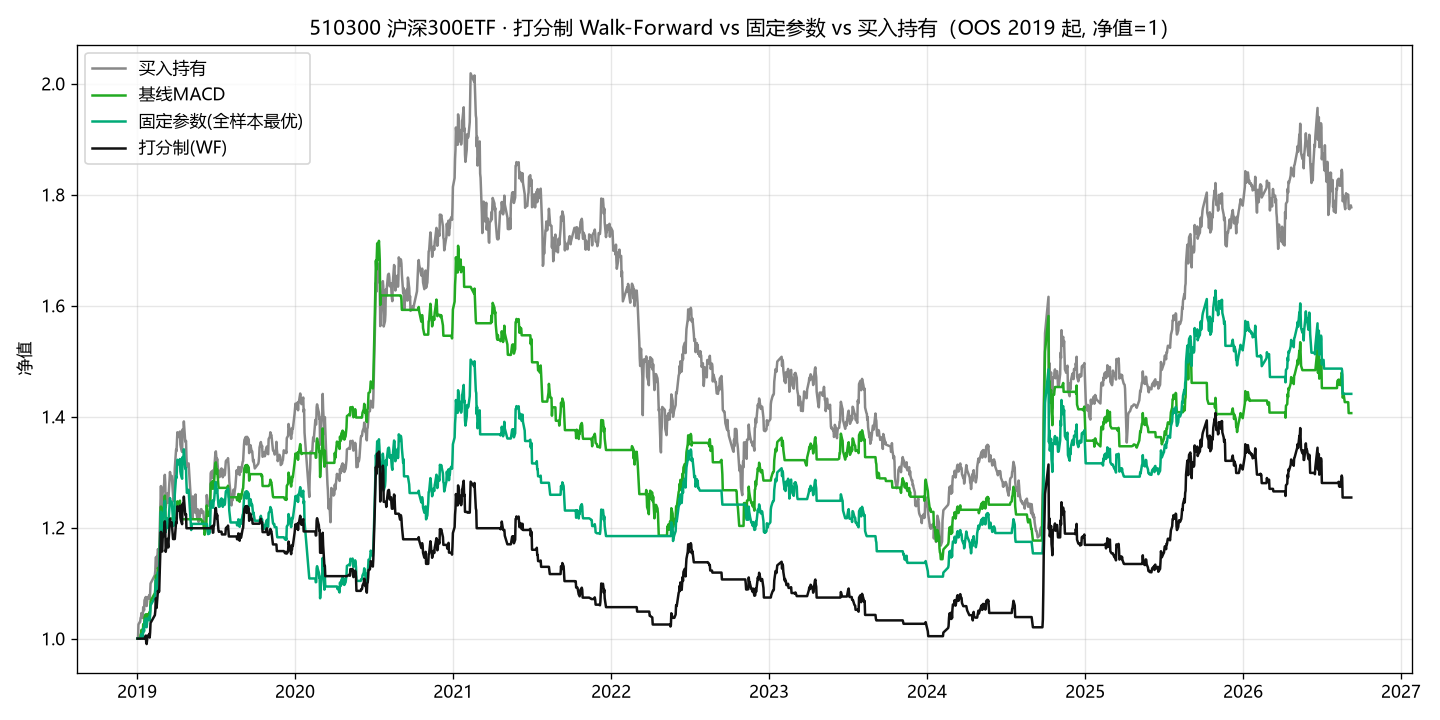
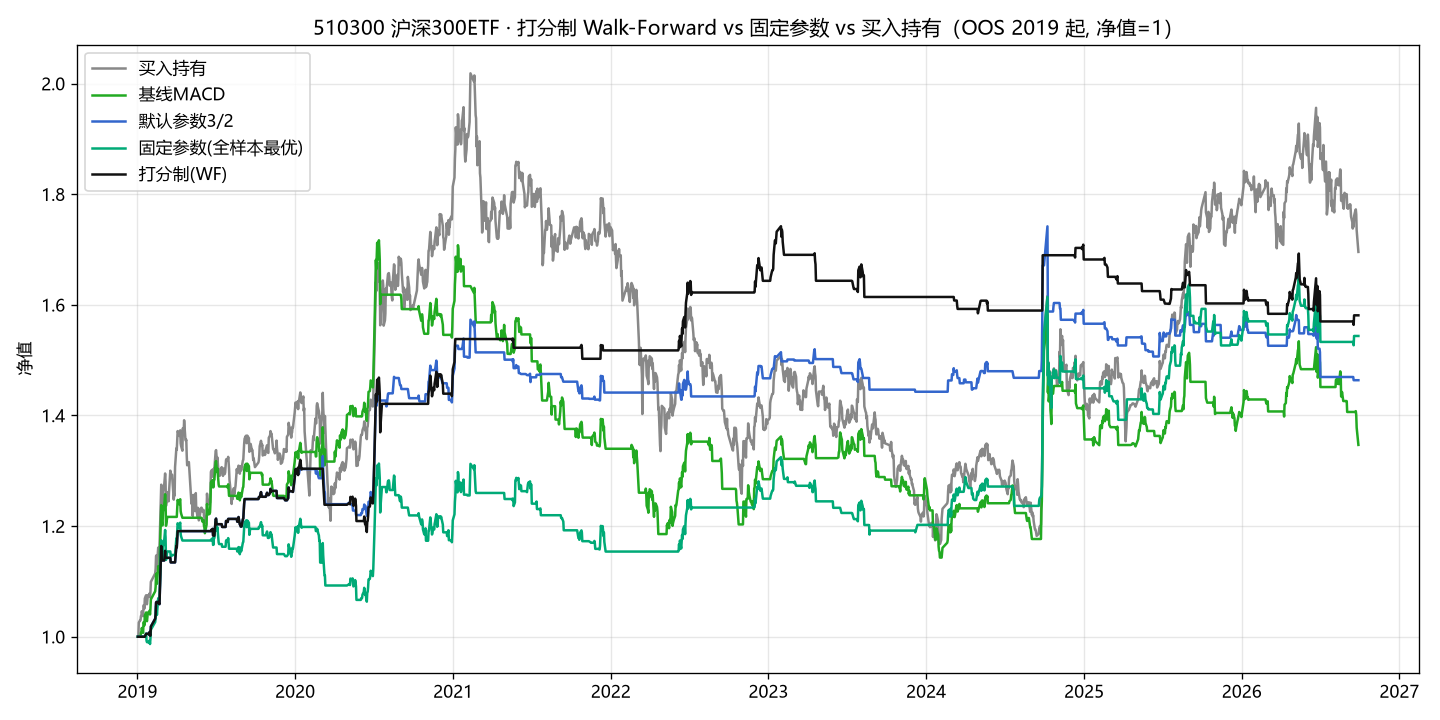
refactor(v6_score_wf): 改用 5 票打分制并新增默认参数对照

diff --git a/strategies/tech_indicators/v6_score_wf/backtest.py b/strategies/tech_indicators/v6_score_wf/backtest.py
@@ -1,10 +1,11 @@
 # -*- coding: utf-8 -*-
 """技术指标策略 · 变种 6：打分制 · Walk-Forward 样本外验证 · 全池回测。
 
-打分制（多指标共振）：7 项看多票数（价>MA20、价>MA60、DIF>DEA、DIF>0、K>D、价>BOLL中轨、放量上涨）
->= enter 进场，<= exit 离场（滞回）。为检验其全样本高收益是否过拟合，做锚定式滚动 Walk-Forward：
+打分制（多指标共振）：5 项看多票数（①价>MA20 且 价>MA60、②DIF>DEA 且 DIF>0、③K>D、
+④价触及/跌破 BOLL 下轨、⑤放量上涨），默认 >= 3 票进场、<= 2 票离场（滞回）。
+为检验其全样本高收益是否过拟合，做锚定式滚动 Walk-Forward：
 
-- 参数网格：enter∈{4,5,6} × exit∈{1,2,3}（9 组）。
+- 参数网格：enter∈{3,4,5} × exit∈{1,2,3}（仅取 exit < enter，8 组）。
 - 测试年 2019..2026；训练窗口 = 该测试年之前的全部历史（锚定式扩张）。
 - 选择指标 = 全池「中位夏普」（仅用训练期数据），取最优参数固定用于紧接的测试年。
 - 把逐年测试结果拼成连续样本外（OOS）净值，与「全样本最优固定参数」「基线 MACD」「买入持有」对照。
@@ -39,31 +40,36 @@ COHORT_2015 = base.COHORT_2015
 WARMUP = base.WARMUP
 
 VARIANT = "打分制(WF)"
-PARAMS = [(e, x) for e in (4, 5, 6) for x in (1, 2, 3)]   # (enter, exit_th)
+DEFAULT_PARAM = (3, 2)                                              # 默认：>=3 票买、<=2 票卖
+PARAMS = [(e, x) for e in (3, 4, 5) for x in (1, 2, 3) if x < e]     # (enter, exit_th) 8 组
 TEST_YEARS = list(range(2019, 2027))
 OOS_START = "2019-01-01"
-DESC = ("7 项看多票数(价>MA20、价>MA60、DIF>DEA、DIF>0、K>D、价>BOLL中轨、放量上涨)"
-        ">= enter 买、<= exit 卖(滞回)")
+TOUCH_TOL = 0.01    # 「触及」下轨的容差：close <= BOLL_LOWER * (1 + 1%)
+DESC = ("5 项看多票数(①价>MA20且价>MA60 ②DIF>DEA且DIF>0 ③K>D ④价触及/跌破BOLL下轨(1%容差) "
+        "⑤放量上涨(价涨且量>5日均量))：>= enter 买、<= exit 卖(滞回)")
 
 
-def build_score(close, r, enter=5, exit_th=2):
+def build_score(close, r, enter=DEFAULT_PARAM[0], exit_th=DEFAULT_PARAM[1]):
     n = len(close)
     ma20, ma60 = base._arr(r["MA20"]), base._arr(r["MA60"])
     dif, dea = base._arr(r["DIF"]), base._arr(r["DEA"])
     k, d = base._arr(r["K"]), base._arr(r["D"])
-    mid = base._arr(r["BOLL_MID"])
+    low = base._arr(r["BOLL_LOWER"])
     vol = base._arr(r["volume"])
     vol_ma5 = pd.Series(vol).rolling(5).mean().to_numpy()
     prev = np.concatenate([[np.nan], close[:-1]])
     sig = np.zeros(n, dtype=int)
     p = 0
     for t in range(1, n):
-        if any(np.isnan(x) for x in (ma20[t], ma60[t], dif[t], dea[t], k[t], d[t], mid[t], vol_ma5[t])):
+        if any(np.isnan(x) for x in (ma20[t], ma60[t], dif[t], dea[t], k[t], d[t],
+                                     low[t], vol_ma5[t], prev[t])):
             sig[t] = p
             continue
-        score = (int(close[t] > ma20[t]) + int(close[t] > ma60[t]) + int(dif[t] > dea[t])
-                 + int(dif[t] > 0) + int(k[t] > d[t]) + int(close[t] > mid[t])
-                 + int(vol[t] > vol_ma5[t] and close[t] > prev[t]))
+        score = (int(close[t] > ma20[t] and close[t] > ma60[t])          # ① 双均线之上
+                 + int(dif[t] > dea[t] and dif[t] > 0)                   # ② MACD 多头且零轴上方
+                 + int(k[t] > d[t])                                      # ③ KDJ 金叉状态
+                 + int(close[t] <= low[t] * (1 + TOUCH_TOL))             # ④ 触及/跌破 BOLL 下轨
+                 + int(close[t] > prev[t] and vol[t] > vol_ma5[t]))      # ⑤ 放量上涨
         if p == 0 and score >= enter:
             p = 1
         elif p == 1 and score <= exit_th:
@@ -106,8 +112,10 @@ def _plot(dates, curves, path):
     plt.rcParams["axes.unicode_minus"] = False
     x = pd.to_datetime(dates)
     fig, ax = plt.subplots(figsize=(12, 6))
-    colors = {"买入持有": "#888", "打分制(WF)": "#111", "固定参数(全样本最优)": "#0a7", "基线MACD": "#2a2"}
-    for kk in ["买入持有", "基线MACD", "固定参数(全样本最优)", "打分制(WF)"]:
+    colors = {"买入持有": "#888", "打分制(WF)": "#111", "固定参数(全样本最优)": "#0a7",
+              "基线MACD": "#2a2", f"默认参数{DEFAULT_PARAM[0]}/{DEFAULT_PARAM[1]}": "#36c"}
+    for kk in ["买入持有", "基线MACD", f"默认参数{DEFAULT_PARAM[0]}/{DEFAULT_PARAM[1]}",
+               "固定参数(全样本最优)", "打分制(WF)"]:
         if kk in curves:
             ax.plot(x, curves[kk], label=kk, color=colors.get(kk), linewidth=1.5)
     ax.set_title("510300 沪深300ETF · 打分制 Walk-Forward vs 固定参数 vs 买入持有（OOS 2019 起, 净值=1）")
@@ -159,7 +167,7 @@ def main():
     best_param = max(PARAMS, key=lambda pr: full_med[pr])
 
     # 样本外（OOS）拼接
-    wf_rows, fixed_rows, macd_rows = [], [], []
+    wf_rows, fixed_rows, macd_rows, def_rows = [], [], [], []
     curves, dates_510300 = {}, None
     for code, st in store.items():
         close, dates = st["close"], st["dates"]
@@ -178,10 +186,14 @@ def main():
         mf, eqf, trf = base.backtest(close, st["sigs"][best_param], dates, code, s=oos0)
         fixed_rows.append({"code": code, "m": mf, "bh": bh, "trades": trf})
 
+        md_, eqd, trd = base.backtest(close, st["sigs"][DEFAULT_PARAM], dates, code, s=oos0)
+        def_rows.append({"code": code, "m": md_, "bh": bh, "trades": trd})
+
         if code == "510300":
             dates_510300 = dates[oos0:]
             curves["打分制(WF)"] = eq
             curves["固定参数(全样本最优)"] = eqf
+            curves[f"默认参数{DEFAULT_PARAM[0]}/{DEFAULT_PARAM[1]}"] = eqd
             curves["买入持有"] = bh_eq
 
     # 基线 MACD 在 OOS 上的对照（需要用原始指标重建信号）
@@ -212,9 +224,11 @@ def main():
             }, ensure_ascii=False) + "\n")
 
     a_wf, a_fx, a_macd = base._agg(wf_rows), base._agg(fixed_rows), base._agg(macd_rows)
+    a_def = base._agg(def_rows)
     longset = {c for c in store if store[c]["dates"][0] <= COHORT_2015}
     c_wf = base._agg([x for x in wf_rows if x["code"] in longset])
     c_fx = base._agg([x for x in fixed_rows if x["code"] in longset])
+    c_def = base._agg([x for x in def_rows if x["code"] in longset])
     bh_ann = np.median([x["bh"]["ann"] for x in wf_rows])
     bh_dd = np.median([x["bh"]["dd"] for x in wf_rows])
     bh_sh = np.median([x["bh"]["sharpe"] for x in wf_rows])
@@ -226,7 +240,8 @@ def main():
         "## 策略与验证方法",
         "",
         f"- **打分制**：{DESC}。",
-        f"- **参数网格**：enter∈{{4,5,6}} × exit∈{{1,2,3}}（9 组）。",
+        f"- **默认参数**：enter={DEFAULT_PARAM[0]} / exit={DEFAULT_PARAM[1]}（≥{DEFAULT_PARAM[0]} 票买入、≤{DEFAULT_PARAM[1]} 票卖出）。",
+        f"- **参数网格**：enter∈{{3,4,5}} × exit∈{{1,2,3}}（仅取 exit < enter，{len(PARAMS)} 组）。",
         f"- **锚定式滚动**：测试年 {TEST_YEARS[0]}..{TEST_YEARS[-1]}，训练=该年之前全部历史；选择指标=全池中位夏普（仅用训练期）。",
         "- **样本外拼接**：逐年用训练期选出、其后固定不变的参数，拼成连续 OOS 净值。",
         "",
@@ -245,6 +260,7 @@ def main():
         "| 口径 | 中位年化 | 中位最大回撤 | 中位夏普 | 中位曝光 | 跑赢买入持有 | 回撤更小 | 交易 | 利润因子 |",
         "|---|---|---|---|---|---|---|---|---|",
         _row(f"**{VARIANT}（样本外）**", a_wf),
+        _row(f"默认参数 {DEFAULT_PARAM[0]}/{DEFAULT_PARAM[1]}（OOS）", a_def),
         _row(f"固定参数 {best_param[0]}/{best_param[1]}（全样本最优, OOS）", a_fx),
         _row("基线MACD（OOS）", a_macd),
         f"| 买入持有（OOS） | {base.pct(bh_ann)} | {base.pct(bh_dd)} | {bh_sh:.2f} | 100% | — | — | 1 | — |",
@@ -254,6 +270,7 @@ def main():
         "| 口径 | 中位年化 | 中位最大回撤 | 中位夏普 | 中位曝光 | 跑赢买入持有 | 回撤更小 | 交易 | 利润因子 |",
         "|---|---|---|---|---|---|---|---|---|",
         _row(f"**{VARIANT}（样本外）**", c_wf),
+        _row(f"默认参数 {DEFAULT_PARAM[0]}/{DEFAULT_PARAM[1]}（OOS）", c_def),
         _row(f"固定参数 {best_param[0]}/{best_param[1]}（OOS）", c_fx),
     ]
 
@@ -263,9 +280,12 @@ def main():
     m510 = {x["code"]: x for x in wf_rows}["510300"]
     mf510 = {x["code"]: x for x in fixed_rows}["510300"]
     mm510 = {x["code"]: x for x in macd_rows}["510300"]
+    md510 = {x["code"]: x for x in def_rows}["510300"]
     L.append(f"| 买入持有 | {base.pct(m510['bh']['ann'])} | {base.pct(m510['bh']['dd'])} | {m510['bh']['sharpe']:.2f} | "
              f"{base.pct(m510['bh']['total'])} | {m510['bh']['calmar']:.2f} | 1 | — | — |")
-    for lab, m in ((f"{VARIANT}(WF)", m510["m"]), (f"固定{best_param[0]}/{best_param[1]}", mf510["m"]),
+    for lab, m in (("打分制(WF)", m510["m"]),
+                   (f"默认{DEFAULT_PARAM[0]}/{DEFAULT_PARAM[1]}", md510["m"]),
+                   (f"固定{best_param[0]}/{best_param[1]}", mf510["m"]),
                    ("基线MACD", mm510["m"])):
         L.append(f"| {lab} | {base.pct(m['ann'])} | {base.pct(m['dd'])} | {m['sharpe']:.2f} | "
                  f"{base.pct(m['total'])} | {m['calmar']:.2f} | {m['n']} | {base.pct(m['win_rate'])} | {m['payoff']:.2f} |")

diff --git a/strategies/tech_indicators/v6_score_wf/backtest/_v6_score_wf_report.md b/strategies/tech_indicators/v6_score_wf/backtest/_v6_score_wf_report.md
@@ -3,8 +3,9 @@
 
 ## 策略与验证方法
 
-- **打分制**：7 项看多票数(价>MA20、价>MA60、DIF>DEA、DIF>0、K>D、价>BOLL中轨、放量上涨)>= enter 买、<= exit 卖(滞回)。
-- **参数网格**：enter∈{4,5,6} × exit∈{1,2,3}（9 组）。
+- **打分制**：5 项看多票数(①价>MA20且价>MA60 ②DIF>DEA且DIF>0 ③K>D ④价触及/跌破BOLL下轨(1%容差) ⑤放量上涨(价涨且量>5日均量))：>= enter 买、<= exit 卖(滞回)。
+- **默认参数**：enter=3 / exit=2（≥3 票买入、≤2 票卖出）。
+- **参数网格**：enter∈{3,4,5} × exit∈{1,2,3}（仅取 exit < enter，8 组）。
 - **锚定式滚动**：测试年 2019..2026，训练=该年之前全部历史；选择指标=全池中位夏普（仅用训练期）。
 - **样本外拼接**：逐年用训练期选出、其后固定不变的参数，拼成连续 OOS 净值。
 
@@ -12,45 +13,48 @@
 
 | 测试年 | 选中参数 (进/退) | 训练中位夏普 |
 |---|---|---|
-| 2019 | 6 / 3 | -0.15 |
-| 2020 | 6 / 2 | 0.32 |
-| 2021 | 5 / 3 | 0.32 |
-| 2022 | 4 / 3 | 0.27 |
-| 2023 | 5 / 3 | 0.15 |
-| 2024 | 5 / 2 | 0.12 |
-| 2025 | 6 / 1 | 0.20 |
-| 2026 | 4 / 2 | 0.43 |
+| 2019 | 3 / 2 | 0.14 |
+| 2020 | 4 / 1 | 0.39 |
+| 2021 | 4 / 2 | 0.51 |
+| 2022 | 4 / 1 | 0.36 |
+| 2023 | 4 / 1 | 0.33 |
+| 2024 | 4 / 2 | 0.31 |
+| 2025 | 4 / 2 | 0.43 |
+| 2026 | 3 / 1 | 0.42 |
 
 ## 样本外汇总（OOS 2019-01-01 起 · 中位数 · 55 只）
 
 | 口径 | 中位年化 | 中位最大回撤 | 中位夏普 | 中位曝光 | 跑赢买入持有 | 回撤更小 | 交易 | 利润因子 |
 |---|---|---|---|---|---|---|---|---|
-| **打分制(WF)（样本外）** | +6.84% | -28.88% | 0.41 | 47% | 42% | 89% | 3714 | 1.64 |
-| 固定参数 5/1（全样本最优, OOS） | +8.08% | -31.67% | 0.44 | 59% | 45% | 89% | 2303 | 1.90 |
-| 基线MACD（OOS） | +8.80% | -29.11% | 0.60 | 51% | 51% | 96% | 3192 | 1.68 |
-| 买入持有（OOS） | +8.90% | -45.42% | 0.33 | 100% | — | — | 1 | — |
+| **打分制(WF)（样本外）** | +3.80% | -18.55% | 0.36 | 17% | 36% | 98% | 3042 | 1.53 |
+| 默认参数 3/2（OOS） | +4.66% | -20.71% | 0.33 | 20% | 35% | 96% | 7055 | 1.32 |
+| 固定参数 3/1（全样本最优, OOS） | +6.07% | -22.79% | 0.41 | 34% | 38% | 96% | 3760 | 1.62 |
+| 基线MACD（OOS） | +8.59% | -29.21% | 0.56 | 51% | 51% | 96% | 3218 | 1.62 |
+| 买入持有（OOS） | +8.01% | -45.42% | 0.32 | 100% | — | — | 1 | — |
 
 ## 长历史子样本（2015 起 · 13 只 · 中位数）
 
 | 口径 | 中位年化 | 中位最大回撤 | 中位夏普 | 中位曝光 | 跑赢买入持有 | 回撤更小 | 交易 | 利润因子 |
 |---|---|---|---|---|---|---|---|---|
-| **打分制(WF)（样本外）** | +4.13% | -28.78% | 0.23 | 49% | 15% | 77% | 1146 | 1.43 |
-| 固定参数 5/1（OOS） | +6.29% | -31.03% | 0.38 | 60% | 23% | 85% | 677 | 1.91 |
+| **打分制(WF)（样本外）** | +4.38% | -15.75% | 0.41 | 18% | 15% | 100% | 1006 | 1.61 |
+| 默认参数 3/2（OOS） | +2.52% | -19.25% | 0.32 | 20% | 8% | 100% | 2271 | 1.26 |
+| 固定参数 3/1（OOS） | +5.64% | -19.93% | 0.37 | 35% | 15% | 92% | 1213 | 1.46 |
 
 ## 代表标的：510300 沪深300ETF（OOS 2019 起）
 
 | 口径 | 年化 | 最大回撤 | 夏普 | 总收益 | 卡玛比率 | 交易 | 胜率 | 盈亏比 |
 |---|---|---|---|---|---|---|---|---|
-| 买入持有 | +8.08% | -42.16% | 0.42 | +77.72% | 0.19 | 1 | — | — |
-| 打分制(WF)(WF) | +3.11% | -24.88% | 0.23 | +25.43% | 0.12 | 93 | +21.51% | 4.96 |
-| 固定5/1 | +5.06% | -26.02% | 0.33 | +44.10% | 0.19 | 51 | +27.45% | 4.55 |
-| 基线MACD | +4.72% | -33.42% | 0.35 | +40.64% | 0.14 | 73 | +31.51% | 3.10 |
+| 买入持有 | +7.35% | -42.16% | 0.38 | +69.57% | 0.17 | 1 | — | — |
+| 打分制(WF) | +6.34% | -10.24% | 0.79 | +58.11% | 0.62 | 66 | +46.97% | 2.55 |
+| 默认3/2 | +5.25% | -15.97% | 0.59 | +46.38% | 0.33 | 168 | +42.86% | 2.06 |
+| 固定3/1 | +6.00% | -13.75% | 0.50 | +54.38% | 0.44 | 95 | +31.58% | 3.63 |
+| 基线MACD | +4.08% | -33.42% | 0.30 | +34.68% | 0.12 | 74 | +31.08% | 3.04 |
 
 ## 单笔交易统计（OOS 全池合并 · 打分制(WF)）
 
 | 交易笔数 | 胜率 | 平均盈利 | 平均亏损 | 盈亏比 | 利润因子 | 最佳单笔 | 最差单笔 |
 |---|---|---|---|---|---|---|---|
-| 3714 | +29.03% | +7.08% | -1.76% | 4.02 | 1.64 | +260.52% | -12.73% |
+| 3042 | +40.27% | +3.58% | -1.58% | 2.27 | 1.53 | +53.51% | -12.17% |
 
 > 单笔按持仓期收益计；胜率=盈利笔数/总笔数；盈亏比=平均盈利/|平均亏损|；利润因子=总盈利/|总亏损|。
 

diff --git a/strategies/tech_indicators/v6_score_wf/README.md b/strategies/tech_indicators/v6_score_wf/README.md
@@ -1,26 +1,40 @@
-# 变种 6 · 打分制 · Walk-Forward 样本外验证
+# 变种 6 · 打分制（5 票） · Walk-Forward 样本外验证
 
-对「多指标打分制」做**锚定式滚动 Walk-Forward**，检验其全样本高收益是否过拟合。
+对「多指标打分制」做**锚定式滚动 Walk-Forward**，检验其全样本表现是否过拟合。
 
 ## 策略
 
-7 项看多票数（价>MA20、价>MA60、DIF>DEA、DIF>0、K>D、价>BOLL中轨、放量上涨）：
-`>= enter` 买入、`<= exit` 卖出（滞回）。参数网格 `enter∈{4,5,6} × exit∈{1,2,3}`（9 组）。
+**5 项看多票数**（每日各记 0/1，求和为 score）：
+
+| # | 票 | 条件 |
+|---|---|---|
+| ① | 双均线之上 | 价 > MA20 **且** 价 > MA60 |
+| ② | MACD 多头 | DIF > DEA **且** DIF > 0 |
+| ③ | KDJ 多头 | K > D |
+| ④ | 触及/跌破下轨 | 价 ≤ BOLL 下轨 × (1 + 1%)（1% 容差视为「触及」） |
+| ⑤ | 放量上涨 | 价涨（close > 前收）**且** 量 > 5 日均量 |
+
+**默认**：`score >= 3` 买入、`score <= 2` 卖出（滞回）。
+**参数网格**：`enter∈{3,4,5} × exit∈{1,2,3}`，仅取 `exit < enter`（8 组）。
+
+> 注：①（趋势偏强）与 ④（超卖触轨）天然互斥，实际 score 上限约 4，因此 3 票入场主要靠 ②③⑤ 这类「MACD+KDJ+放量」共振触发。
 
 ## 验证方法
 
 - **测试年** 2019..2026；**训练窗口** = 该测试年之前的全部历史（锚定式扩张）；
 - **选择指标** = 全池「中位夏普」（仅用训练期数据），选出最优参数固定用于紧接的测试年；
-- 逐年测试结果**拼成连续样本外（OOS）净值**，与「全样本最优固定参数」「基线 MACD」「买入持有」对照。
+- 逐年测试结果**拼成连续样本外（OOS）净值**，与「默认参数 3/2」「全样本最优固定参数」「基线 MACD」「买入持有」对照。
 
-## 结论（重要）
+## 结论（OOS 2019 起 · 全池 55 只中位数）
 
-1. **不是纯过拟合**：样本外（2019 起全池中位）年化 **+6.84%**、夏普 **0.41**，仍优于买入持有的夏普 0.33，回撤 -28.9% 远小于买入持有 -45.4%。
-2. **但样本外跑不赢基准**：收益 +6.84% < 买入持有 +8.90%，也 < 基线 MACD +8.80%（夏普 0.60）。
-3. **参数极不稳定**：逐年选出的"最优"参数在 6/3→6/2→5/3→4/3→5/3→5/2→6/1→4/2 之间乱跳，说明"最优参数"主要是噪声。
-4. **Walk-Forward 反而略逊于固定参数**（+6.84% vs 全样本最优 5/1 的 +8.08%）——频繁重选增加了噪声，不如用一个稳定参数。
+1. **曝光极低**：默认 3/2 曝光仅 20%，WF 17% —— 5 票中①④互斥使入场条件偏严，多数时间空仓。
+2. **回撤控制优秀**：WF 中位最大回撤 -18.6%、默认 3/2 -20.7%，远小于买入持有 -45.4%；98% 的标的回撤更小。
+3. **收益仍不敌基准**：WF +3.80%、默认 3/2 +4.66% < 买入持有 +8.01%，也 < 基线 MACD +8.59%（夏普 0.56）。
+4. **参数仍不稳定**：逐年选出的参数在 3/2→4/1→4/2→4/1→4/1→4/2→4/2→3/1 之间跳动；WF（+3.80%）反而不如全样本最优固定参数 3/1（+6.07%，夏普 0.41）。
+5. **510300 上是例外**：WF 年化 +6.34%、回撤仅 -10.24%、夏普 0.79、卡玛 0.62，大幅优于买入持有（+7.35% / -42.16% / 0.38 / 0.17）。
 
-→ 打分制的价值在**风控（低回撤/高盈亏比）**，而非超额收益；相较之下**基线 MACD 更简洁且样本外更强**。
+→ 5 票版打分制仍是**风控型策略**（低回撤、高盈亏比 2.27、利润因子 1.53），而非超额收益来源；
+横向比较下**基线 MACD 更简洁且样本外更强**，但 510300 这类宽基上打分制的回撤优势显著。
 
 ## 运行
 
